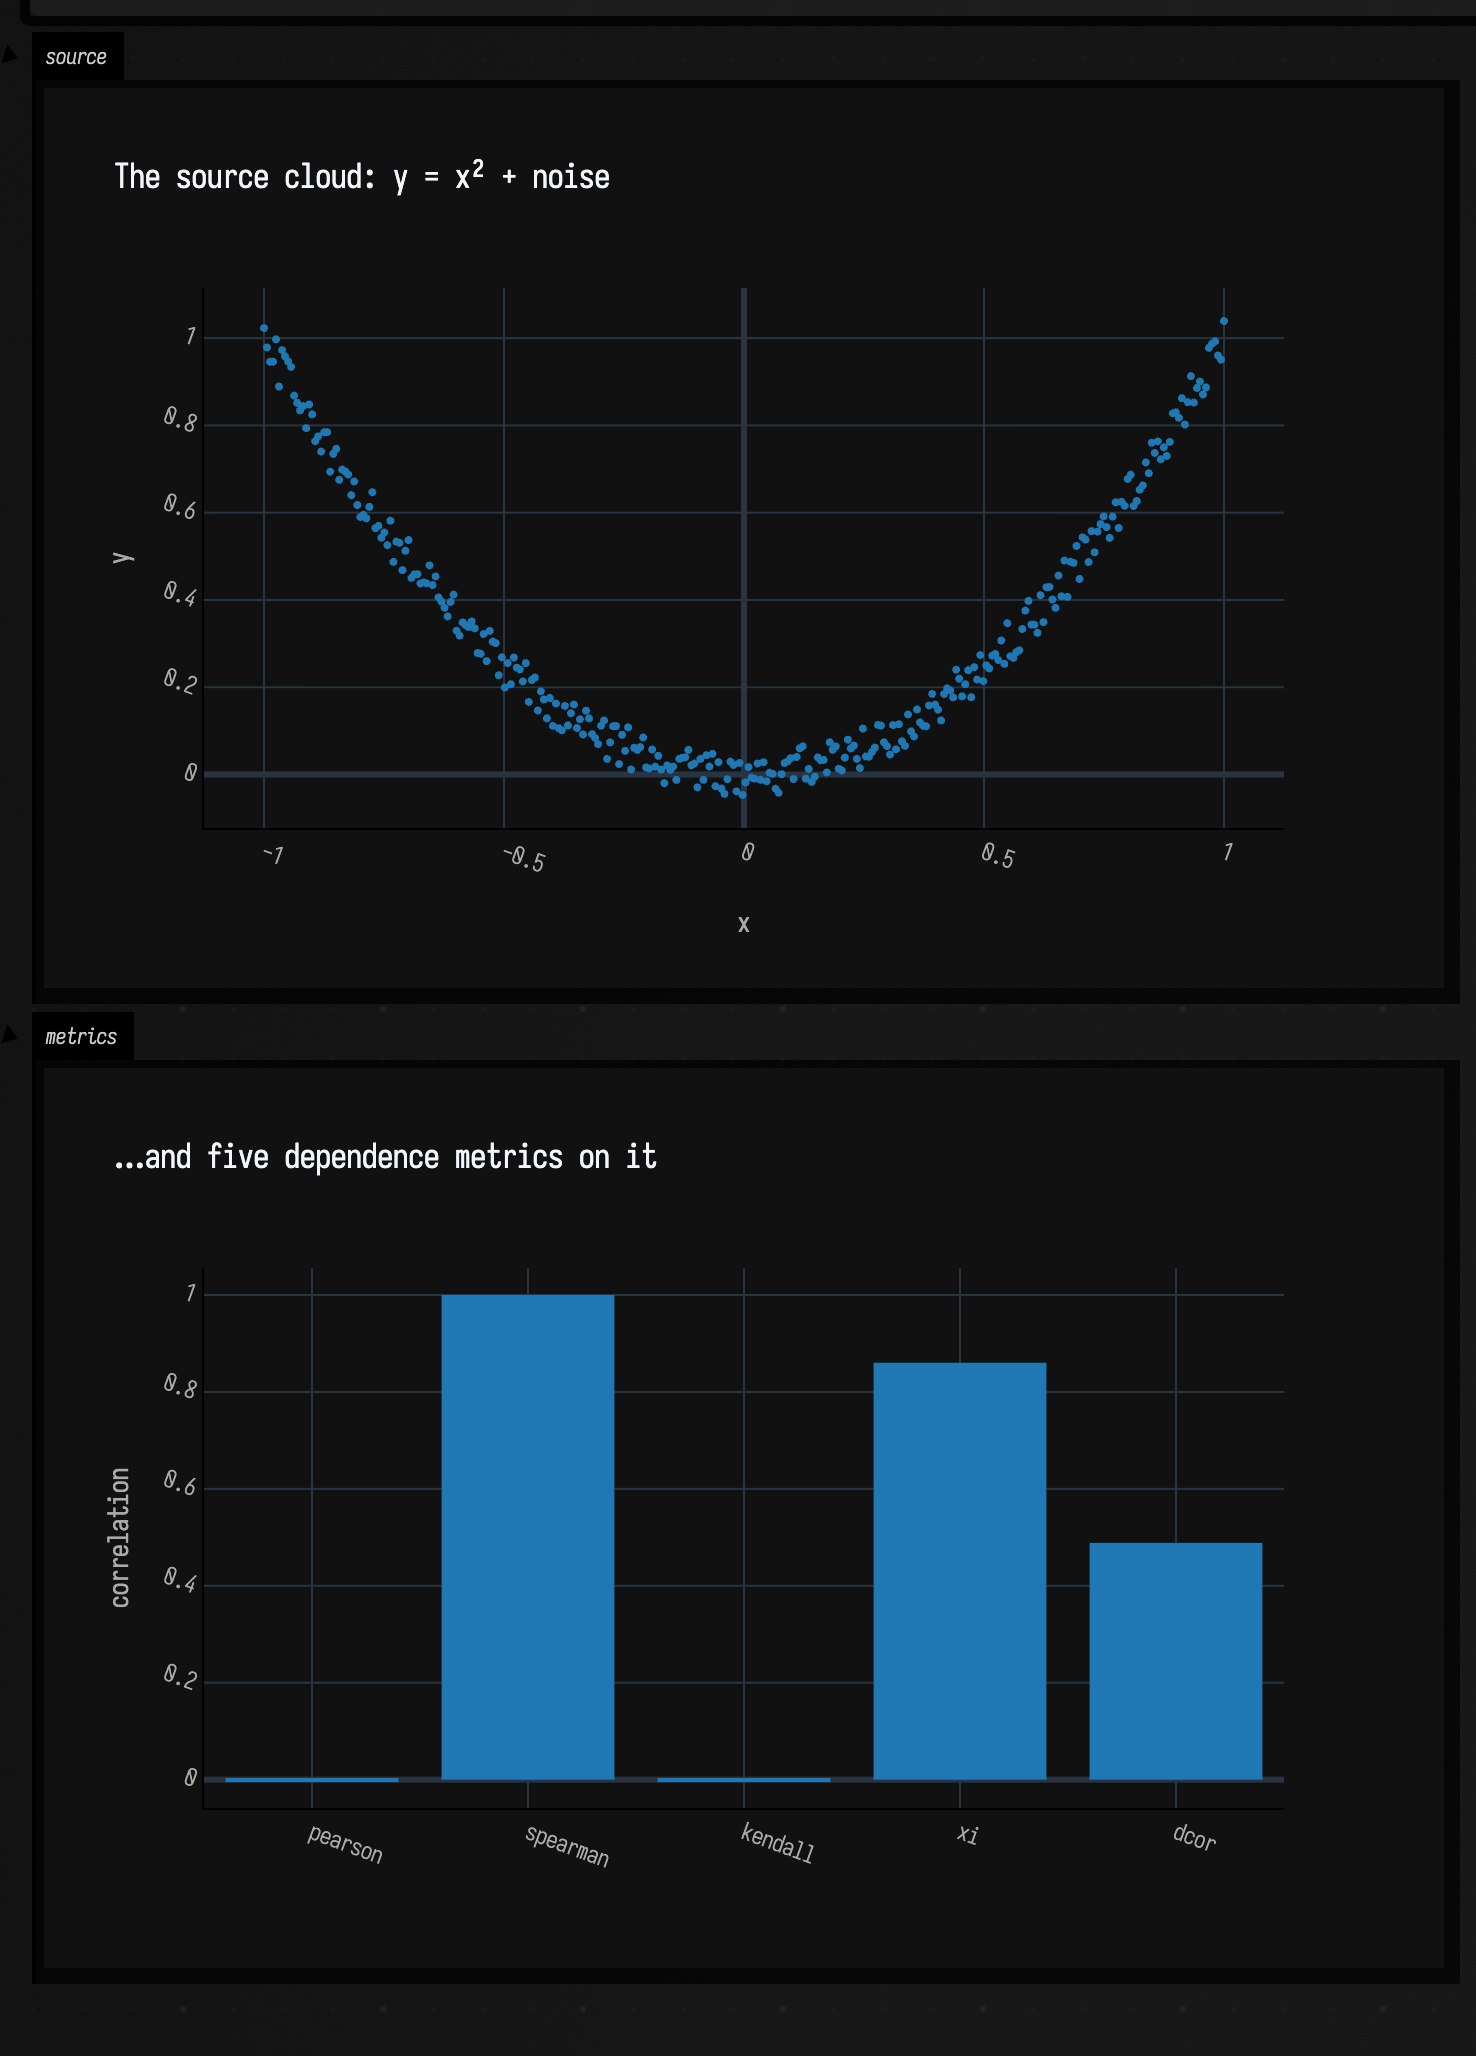
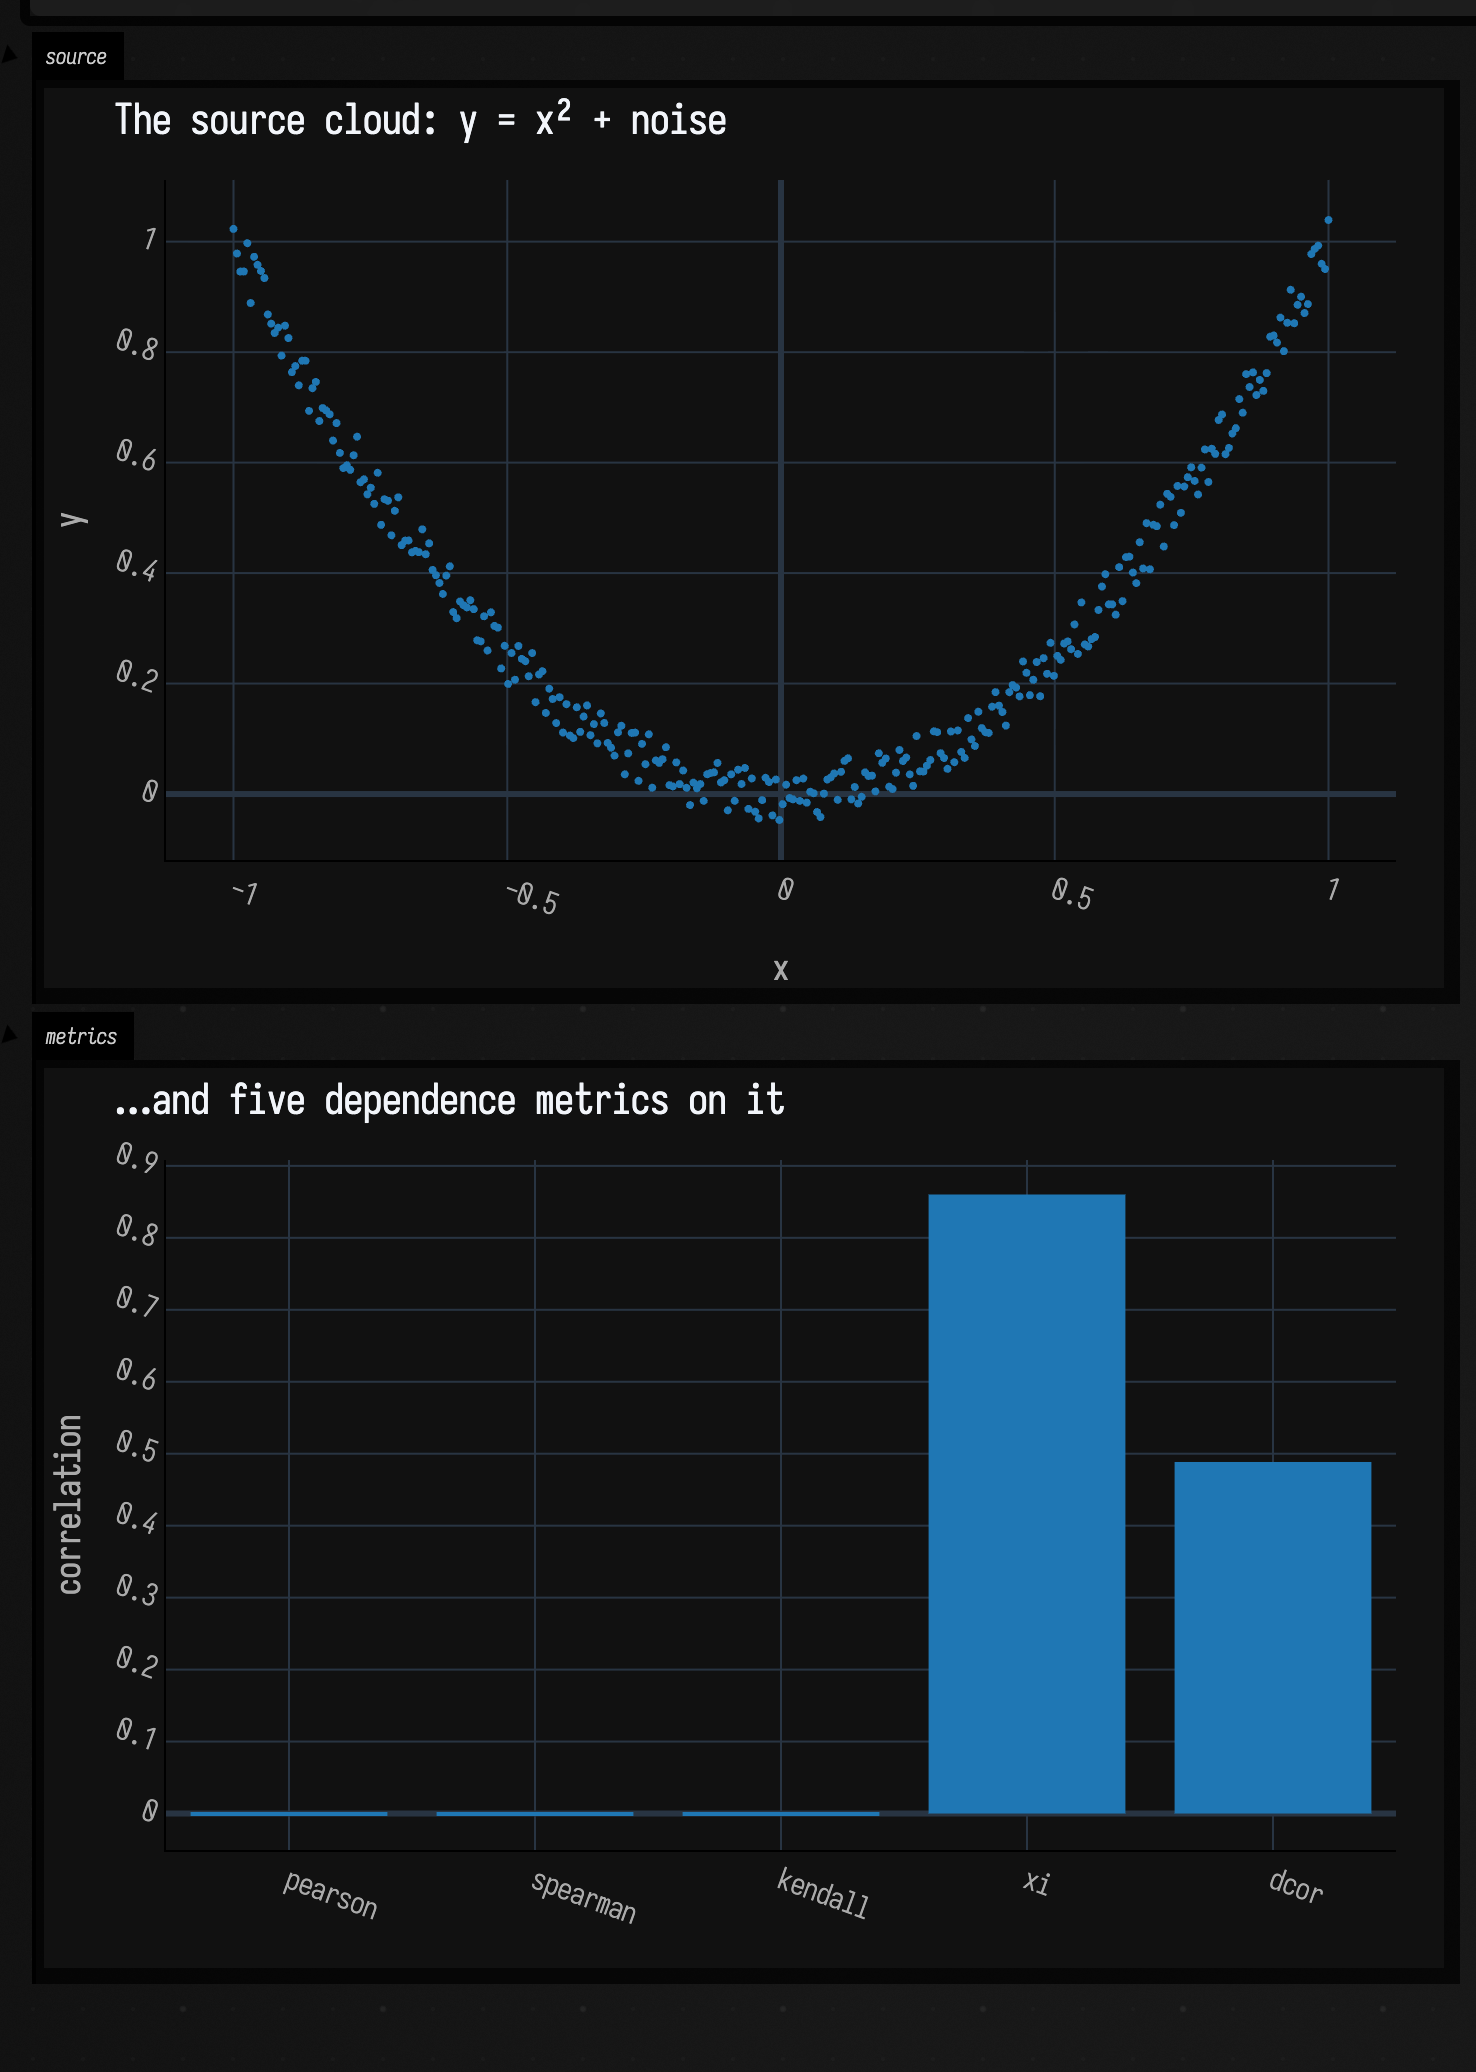
fix(stdlib): make the rank helpers in correlations.kt actually sort
`StatsDependence.ranksAverageTies` and the private `orderRanks` inside
`micTicNaive` both called `sortedWith` on their index array and threw the
returned list away. `sortedWith` does not mutate, so the array stayed in
identity order and the "ranks" were merely positions: `spearman` correlated
1..n against 1..n and answered ~1.0 for any tie-free input, and `micTicNaive`
reported MIC ~1.0 for any input at all. `kendallTauB`, `chatterjeeXi` and
`distanceCorrelation` sort correctly and were unaffected.

Index through the sorted result in both, over an `IntRange` as `chatterjeeXi`
already does. The stable index tie-break and the average-ranks-for-ties loop
are unchanged.

Adds StatsDependenceTest: increasing vs decreasing is exactly -1.0, a shuffled
pair exactly 0.2, ties against hand-computed average ranks, and MIC below 0.5
on seeded noise versus above 0.99 on y = 2x. Ten of its nineteen cases fail
against the pre-fix code, none after.

Regenerates the one committed capture that embedded the wrong numbers —
metric_profile.png on interpolants_examples.md drew a spearman bar at ~1.0 on
y = x² + noise, and now reads ≈0 alongside pearson and kendall, which is what
the surrounding prose always claimed.

diff --git a/src/jvmTest/kotlin/afield/stdlib/StatsDependenceTest.kt b/src/jvmTest/kotlin/afield/stdlib/StatsDependenceTest.kt
@@ -1,0 +1,217 @@
+package afield.stdlib
+
+import kotlin.math.abs
+import kotlin.math.sqrt
+import kotlin.test.Test
+import kotlin.test.assertEquals
+import kotlin.test.assertTrue
+
+/**
+ * Known-answer coverage for the rank-based members of [StatsDependence] ([correlations.kt]).
+ *
+ * These exist because `ranksAverageTies` and the private `orderRanks` helper inside `micTicNaive`
+ * both used to call `sortedWith` and throw the returned list away, leaving the index array in
+ * identity order. The "ranks" were then just positions, so `spearman` answered ≈1.0 for any
+ * tie-free input and `micTicNaive` reported a MIC of ≈1.0 for anything at all. Every assertion
+ * below that pins a value away from 1.0 would have failed against that.
+ */
+class StatsDependenceTest {
+
+    private val eps = 1e-12
+
+    // -------------------------
+    // ranksAverageTies
+    // -------------------------
+
+    @Test
+    fun `ranks of an already-sorted array are 1 through n`() {
+        val ranks = StatsDependence.ranksAverageTies(doubleArrayOf(10.0, 20.0, 30.0, 40.0))
+        assertEquals(listOf(1.0, 2.0, 3.0, 4.0), ranks.toList())
+    }
+
+    @Test
+    fun `ranks reflect value order, not position`() {
+        // the pre-fix implementation returned 1,2,3,4,5 here — the identity permutation
+        val ranks = StatsDependence.ranksAverageTies(doubleArrayOf(30.0, 10.0, 40.0, 20.0, 50.0))
+        assertEquals(listOf(3.0, 1.0, 4.0, 2.0, 5.0), ranks.toList())
+    }
+
+    @Test
+    fun `tied values share their average rank`() {
+        // sorted: 1(idx1) 1(idx3) 3(idx0) 4(idx2) 5(idx4)
+        // the two 1s occupy positions 1 and 2, so both take (1+2)/2 = 1.5
+        val ranks = StatsDependence.ranksAverageTies(doubleArrayOf(3.0, 1.0, 4.0, 1.0, 5.0))
+        assertEquals(listOf(3.0, 1.5, 4.0, 1.5, 5.0), ranks.toList())
+    }
+
+    @Test
+    fun `a non-adjacent run of ties is averaged across all its members`() {
+        // three 7s at positions 2,3,4 (1-based) -> 3.0 each; hand-computed
+        val ranks = StatsDependence.ranksAverageTies(doubleArrayOf(7.0, 9.0, 5.0, 7.0, 7.0))
+        assertEquals(listOf(3.0, 5.0, 1.0, 3.0, 3.0), ranks.toList())
+    }
+
+    @Test
+    fun `all values tied gives every element the same middle rank`() {
+        val ranks = StatsDependence.ranksAverageTies(doubleArrayOf(2.0, 2.0, 2.0, 2.0))
+        assertEquals(listOf(2.5, 2.5, 2.5, 2.5), ranks.toList())
+    }
+
+    @Test
+    fun `ranks are a permutation summing to n times n plus one over two`() {
+        val values = doubleArrayOf(0.4, -3.0, 11.5, 2.0, 2.0, -7.25, 8.0, 0.0)
+        val n = values.size
+        val ranks = StatsDependence.ranksAverageTies(values)
+        assertEquals(n * (n + 1) / 2.0, ranks.sum(), 1e-9)
+    }
+
+    // -------------------------
+    // spearman
+    // -------------------------
+
+    @Test
+    fun `strictly increasing against strictly increasing is plus one`() {
+        val x = DoubleArray(12) { it.toDouble() }
+        val y = DoubleArray(12) { it * 3.0 + 1.0 }
+        assertEquals(1.0, StatsDependence.spearman(x, y), 1e-12)
+    }
+
+    @Test
+    fun `strictly increasing against strictly decreasing is minus one`() {
+        // the headline regression: pre-fix this answered +1.0
+        val n = 12
+        val x = DoubleArray(n) { it.toDouble() }
+        val y = DoubleArray(n) { (n - it).toDouble() }
+        assertEquals(-1.0, StatsDependence.spearman(x, y), 1e-12)
+    }
+
+    @Test
+    fun `a monotone but nonlinear pair is plus one for spearman and less for pearson`() {
+        val n = 20
+        val x = DoubleArray(n) { it + 1.0 }
+        val y = DoubleArray(n) { (it + 1.0) * (it + 1.0) * (it + 1.0) }
+        assertEquals(1.0, StatsDependence.spearman(x, y), 1e-12)
+        assertTrue(
+            StatsDependence.pearson(x, y) < 0.95,
+            "pearson should be pulled below 1 by the cubic: ${StatsDependence.pearson(x, y)}"
+        )
+    }
+
+    @Test
+    fun `a shuffled pair lands strictly between minus one and plus one`() {
+        // x = 1..5, y = 3,1,4,5,2 -> both already rank vectors; pearson of those is exactly 0.2
+        val x = doubleArrayOf(1.0, 2.0, 3.0, 4.0, 5.0)
+        val y = doubleArrayOf(3.0, 1.0, 4.0, 5.0, 2.0)
+        val rho = StatsDependence.spearman(x, y)
+        assertEquals(0.2, rho, 1e-12)
+        assertTrue(rho > -1.0 && rho < 1.0, "expected strictly inside (-1,1), got $rho")
+    }
+
+    @Test
+    fun `spearman with ties matches the hand-computed average ranks`() {
+        // x ranks 1,2,3,4 ; y ranks 1,2.5,2.5,4 -> pearson of those is sqrt(0.9)
+        val x = doubleArrayOf(1.0, 2.0, 3.0, 4.0)
+        val y = doubleArrayOf(10.0, 20.0, 20.0, 30.0)
+        assertEquals(sqrt(0.9), StatsDependence.spearman(x, y), 1e-12)
+    }
+
+    @Test
+    fun `spearman is near zero on a symmetric parabola`() {
+        // non-monotone dependence: the rank correlation should not see it at all
+        val n = 401
+        val x = DoubleArray(n) { (it - n / 2).toDouble() / (n / 2).toDouble() }
+        val y = DoubleArray(n) { x[it] * x[it] }
+        val rho = StatsDependence.spearman(x, y)
+        assertTrue(abs(rho) < 1e-9, "symmetric parabola should give spearman ≈ 0, got $rho")
+    }
+
+    @Test
+    fun `spearman agrees with pearson when both inputs are already ranks`() {
+        val x = doubleArrayOf(1.0, 2.0, 3.0, 4.0, 5.0, 6.0)
+        val y = doubleArrayOf(2.0, 1.0, 4.0, 3.0, 6.0, 5.0)
+        assertEquals(StatsDependence.pearson(x, y), StatsDependence.spearman(x, y), eps)
+    }
+
+    @Test
+    fun `spearman is symmetric in its arguments`() {
+        val x = doubleArrayOf(5.0, 1.0, 4.0, 4.0, 9.0, -2.0, 0.5)
+        val y = doubleArrayOf(2.0, 8.0, 8.0, 1.0, 3.0, 7.0, -1.0)
+        assertEquals(StatsDependence.spearman(x, y), StatsDependence.spearman(y, x), eps)
+    }
+
+    // -------------------------
+    // micTicNaive
+    // -------------------------
+
+    /** Deterministic LCG so the "unrelated" case is reproducible without a test-order dependency. */
+    private fun lcg(n: Int, seed: Long = 987654321L): DoubleArray {
+        var s = seed
+        return DoubleArray(n) {
+            s = (s * 6364136223846793005L + 1442695040888963407L)
+            ((s ushr 11).toDouble() / (1L shl 53).toDouble())
+        }
+    }
+
+    @Test
+    fun `mic is high for an exact monotone relationship`() {
+        val n = 240
+        val x = DoubleArray(n) { it.toDouble() }
+        val y = DoubleArray(n) { it * 2.0 }
+        assertTrue(
+            StatsDependence.micTicNaive(x, y).mic > 0.99,
+            "y = 2x should be essentially MIC 1"
+        )
+    }
+
+    @Test
+    fun `mic is far below one for unrelated series`() {
+        // pre-fix this returned ~1.0: every grid saw the identity permutation on both axes
+        val n = 240
+        val x = DoubleArray(n) { it.toDouble() }
+        val y = lcg(n)
+        val result = StatsDependence.micTicNaive(x, y)
+        assertTrue(
+            result.mic < 0.5,
+            "independent noise should not look like a perfect relationship: mic=${result.mic}"
+        )
+        assertTrue(result.tic >= 0.0, "tic should be a non-negative sum of clipped scores")
+    }
+
+    @Test
+    fun `mic recovers a nonlinear relationship that pearson misses`() {
+        val n = 240
+        val x = DoubleArray(n) { (it - n / 2).toDouble() / (n / 2).toDouble() }
+        val y = DoubleArray(n) { x[it] * x[it] }
+        val mic = StatsDependence.micTicNaive(x, y).mic
+        assertTrue(abs(StatsDependence.pearson(x, y)) < 0.1, "pearson should shrug at the parabola")
+        assertTrue(mic > 0.5, "mic should see the parabola: $mic")
+    }
+
+    // -------------------------
+    // the unaffected members, as cross-checks on the fixed ones
+    // -------------------------
+
+    @Test
+    fun `kendall and spearman agree in sign on monotone data`() {
+        val n = 30
+        val x = DoubleArray(n) { it.toDouble() }
+        val down = DoubleArray(n) { (n - it).toDouble() }
+        assertEquals(-1.0, StatsDependence.kendallTauB(x, down), 1e-12)
+        assertEquals(-1.0, StatsDependence.spearman(x, down), 1e-12)
+    }
+
+    @Test
+    fun `the five batch metrics disagree on a parabola in the documented direction`() {
+        // this is the shape public/docs/interpolants_examples.md plots: pearson and spearman shrug,
+        // xi and dcor notice. Guards the published capture's story.
+        val n = 320
+        val x = DoubleArray(n) { it / (n - 1.0) * 2.0 - 1.0 }
+        val y = DoubleArray(n) { x[it] * x[it] }
+
+        assertTrue(abs(StatsDependence.pearson(x, y)) < 0.1)
+        assertTrue(abs(StatsDependence.spearman(x, y)) < 0.1)
+        assertTrue(abs(StatsDependence.kendallTauB(x, y)) < 0.1)
+        assertTrue(StatsDependence.xi(x, y) > 0.5)
+        assertTrue(StatsDependence.distanceCorrelation(x, y) > 0.4)
+    }
+}

diff --git a/src/jvmMain/kotlin/afield/stdlib/correlations.kt b/src/jvmMain/kotlin/afield/stdlib/correlations.kt
@@ -79,8 +79,8 @@ object StatsDependence {
     // returns ranks in [1..n] with average ranks for tied values.
     fun ranksAverageTies(values: DoubleArray): DoubleArray {
         val n = values.size
-        val idx = IntArray(n) { it }
-        idx.sortedWith { i, j ->
+        // sortedWith returns a new list; index through that, never through the unsorted 0..n-1.
+        val order = (0 until n).sortedWith { i, j ->
             val a = values[i]
             val b = values[j]
             when {
@@ -94,13 +94,13 @@ object StatsDependence {
         var pos = 0
         while (pos < n) {
             var end = pos
-            val v = values[idx[pos]]
-            while (end + 1 < n && values[idx[end + 1]] == v) end++
+            val v = values[order[pos]]
+            while (end + 1 < n && values[order[end + 1]] == v) end++
 
             // positions are 0-based; rank is 1-based
             val avgRank = ((pos + 1) + (end + 1)) / 2.0
             for (k in pos..end) {
-                ranks[idx[k]] = avgRank
+                ranks[order[k]] = avgRank
             }
             pos = end + 1
         }
@@ -369,8 +369,8 @@ object StatsDependence {
 
         // ranks by order (0..n-1) without averaging ties, for binning convenience
         fun orderRanks(values: DoubleArray): IntArray {
-            val idx = IntArray(n) { it }
-            idx.sortedWith { i, j ->
+            // as in ranksAverageTies: use the sorted result, don't discard it
+            val order = (0 until n).sortedWith { i, j ->
                 val a = values[i]
                 val b = values[j]
                 when {
@@ -380,7 +380,7 @@ object StatsDependence {
                 }
             }
             val rank = IntArray(n)
-            for (r in 0 until n) rank[idx[r]] = r
+            for (r in 0 until n) rank[order[r]] = r
             return rank
         }
 
